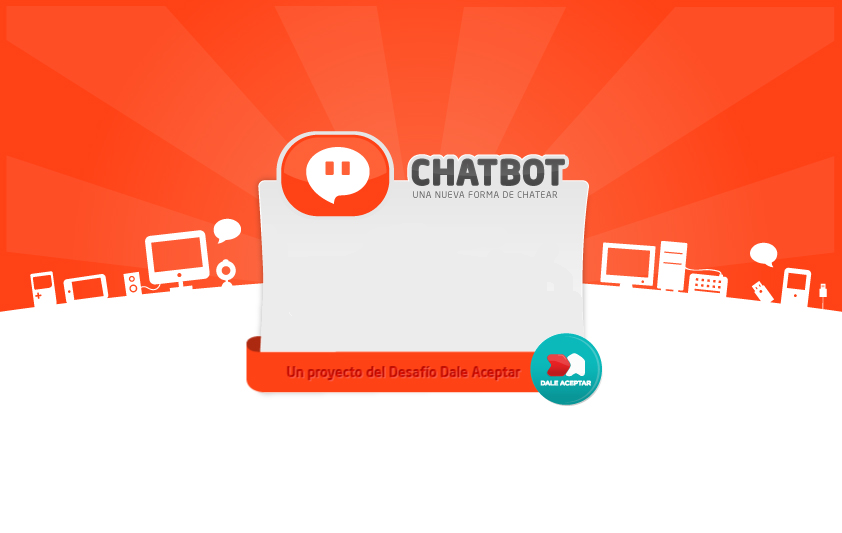
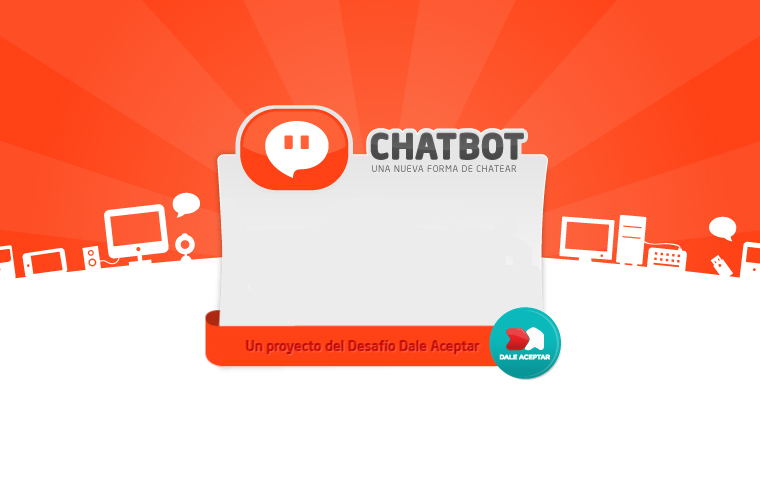
Reduced size of WelcomeWidget and its background

Changed region(s): [[0.0, 0.2188, 1.0, 0.5938], [0.2724, 0.625, 0.7566, 0.8125]]

diff --git a/src/chatbot/front-end/welcomewidget.cpp b/src/chatbot/front-end/welcomewidget.cpp
@@ -32,7 +32,7 @@ Lvk::FE::WelcomeWidget::WelcomeWidget(QWidget *parent) :
     }
 
 #ifdef WIN32
-    ui->spacerTop->changeSize(20, 238);
+    ui->spacerTop->changeSize(20, 214);
 #endif
 
     setGeometry(QStyle::alignedRect(Qt::LeftToRight, Qt::AlignCenter, size(),
